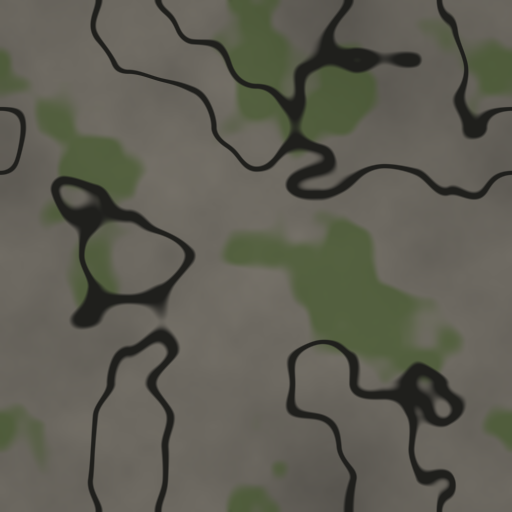
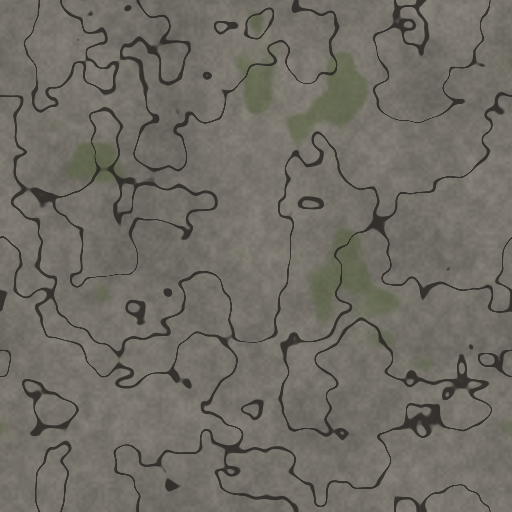
fix: textura de rocha sem aspecto de camuflagem

diff --git a/Assets/Editor/ConstrutorRev02.cs b/Assets/Editor/ConstrutorRev02.cs
@@ -317,10 +317,13 @@ public static partial class ConstrutorNivel1
         }, PastaRev);
         Textura("M05_RochaBruta", 4f, (u, v) =>
         {
-            float b = Fbm(u, v, 3, 6, 141), f = S01((Sulco(u, v, 4, 142) - 0.95f) / 0.03f), m = S01((Fbm(u, v, 6, 3, 143) - 0.6f) / 0.1f);
-            var c = Color.Lerp(new Color(0.3f, 0.29f, 0.27f), new Color(0.52f, 0.5f, 0.46f), b);
-            c = Color.Lerp(c, new Color(0.25f, 0.34f, 0.15f), m * 0.6f); c = Color.Lerp(c, new Color(0.12f, 0.12f, 0.11f), f);
-            return new Vector4(c.r, c.g, c.b, 0.8f * b - 0.6f * f);
+            float b = Fbm(u, v, 6, 6, 141), g = Valor(u, v, 160, 160, 144), g2 = Valor(u, v, 48, 48, 145);
+            float uw = u + 0.02f * (Fbm(u, v, 8, 3, 146) - 0.5f), vw = v + 0.02f * (Fbm(u, v, 8, 3, 147) - 0.5f);
+            float f = 0.8f * S01((Sulco(uw, vw, 10, 142) - 0.965f) / 0.02f);
+            float m = S01((Fbm(u, v, 6, 3, 143) - 0.7f) / 0.06f);
+            var c = Color.Lerp(new Color(0.34f, 0.33f, 0.31f), new Color(0.58f, 0.56f, 0.52f), 0.55f * b + 0.25f * g2 + 0.2f * g);
+            c = Color.Lerp(c, new Color(0.3f, 0.36f, 0.2f), m * 0.45f); c = Color.Lerp(c, new Color(0.14f, 0.13f, 0.12f), f);
+            return new Vector4(c.r, c.g, c.b, 0.6f * b + 0.2f * g2 + 0.1f * g - 0.5f * f);
         }, PastaRev);
         Textura("M06_CascaEscura", 4f, (u, v) =>
         {
